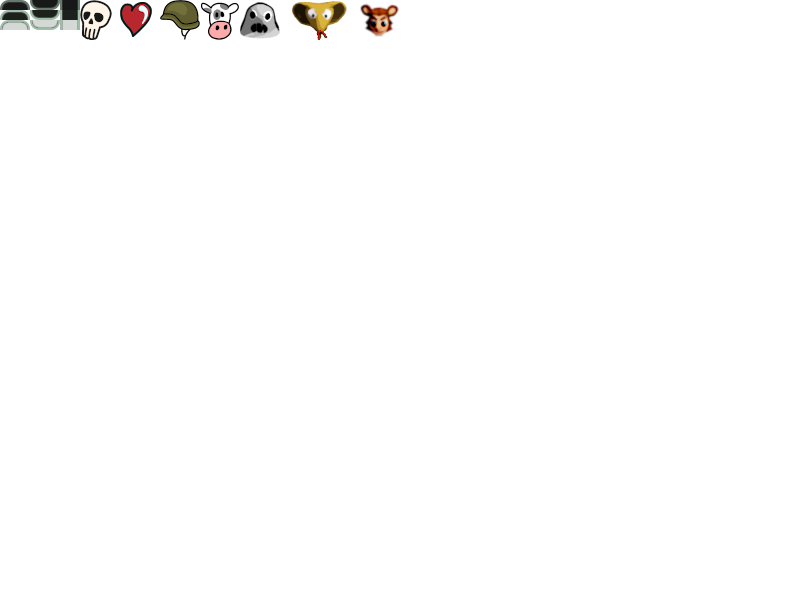
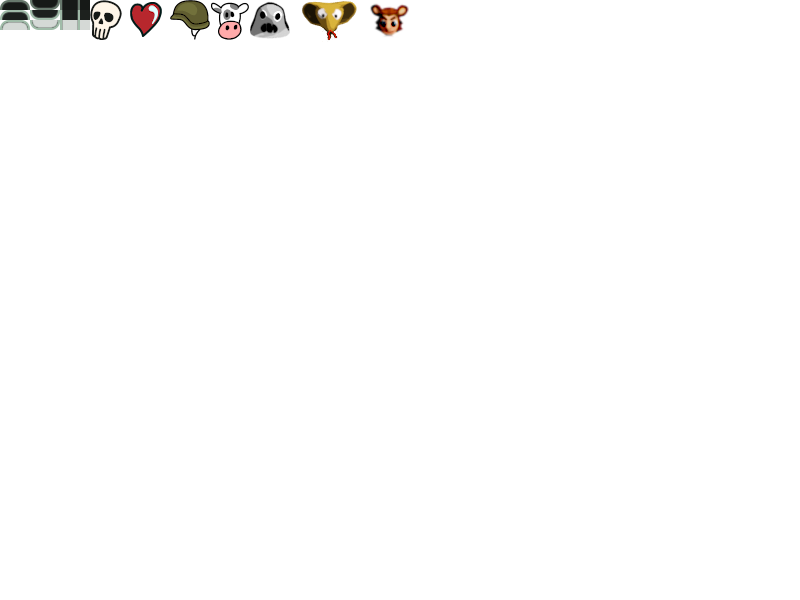
Changed Border sprite

Changed region(s): [[0.0938, 0.0, 0.5312, 0.09]]

diff --git a/src/Box.cpp b/src/Box.cpp
@@ -1,29 +1,29 @@
-#include "Border.h"
+#include "Box.h"
 #include <iostream>
 
-Border::Border() {}
+Box::Box() {}
 
-Border::Border(const Border& b)
+Box::Box(const Box& b)
 	:sprites(b.sprites)
 	{}
 
-void Border::setSprite(size_t name, sf::Sprite sprite) {
+void Box::setSprite(size_t name, sf::Sprite sprite) {
 	sprites[name] = sprite;
 }
 
-sf::Sprite& Border::getSprite(size_t name) {
+sf::Sprite& Box::getSprite(size_t name) {
 	return sprites[name];
 }
 
-void Border::setTexture(size_t name, sf::Texture texture) {
+void Box::setTexture(size_t name, sf::Texture texture) {
 	textures[name] = texture;
 }
 
-sf::Texture& Border::getTexture(size_t name) {
+sf::Texture& Box::getTexture(size_t name) {
 	return textures[name];
 }
 
-void Border::match(const sf::IntRect& rect) {
+void Box::match(const sf::IntRect& rect) {
 	top_left.setPosition(rect.left, rect.top);
 	top_center.setPosition(rect.left + top_left.getTextureRect().width, rect.top);
 	top_right.setPosition(rect.left + rect.width - top_right.getTextureRect().width, rect.top);
@@ -32,14 +32,16 @@ void Border::match(const sf::IntRect& rect) {
 	bottom_right.setPosition(rect.left + rect.width - bottom_right.getTextureRect().width, rect.top + rect.height - bottom_right.getTextureRect().height);
 	middle_left.setPosition(rect.left, rect.top + top_left.getTextureRect().height);
 	middle_right.setPosition(rect.left + rect.width - middle_right.getTextureRect().width, rect.top + top_right.getTextureRect().height);
+	middle_center.setPosition(rect.left + middle_left.getTextureRect().width, rect.top + middle_left.getTextureRect().height);
 
 	top_center.setTextureRect(sf::IntRect(0,0, rect.width - top_left.getTextureRect().width - top_right.getTextureRect().width, top_center.getTextureRect().height));
 	bottom_center.setTextureRect(sf::IntRect(0,0, rect.width - bottom_left.getTextureRect().width - bottom_right.getTextureRect().width, bottom_center.getTextureRect().height));
 	middle_left.setTextureRect(sf::IntRect(0,0, middle_left.getTextureRect().width, rect.height - top_left.getTextureRect().height - bottom_left.getTextureRect().height));
 	middle_right.setTextureRect(sf::IntRect(0,0, middle_right.getTextureRect().width, rect.height - top_right.getTextureRect().height - bottom_right.getTextureRect().height));
+	middle_center.setTextureRect(sf::IntRect(0,0, rect.width - middle_left.getTextureRect().width - middle_right.getTextureRect().width, rect.height - top_center.getTextureRect().height - bottom_center.getTextureRect().height));
 }
 
-std::vector<sf::Sprite*> Border::getSprites() {
+std::vector<sf::Sprite*> Box::getSprites() {
 	std::vector<sf::Sprite*> sprites;
 	sprites.push_back(&top_left);
 	sprites.push_back(&top_center);
@@ -49,5 +51,6 @@ std::vector<sf::Sprite*> Border::getSprites() {
 	sprites.push_back(&bottom_right);
 	sprites.push_back(&middle_left);
 	sprites.push_back(&middle_right);
+	sprites.push_back(&middle_center);
 	return sprites;
 }

diff --git a/src/Assets.cpp b/src/Assets.cpp
@@ -52,7 +52,7 @@ sf::Font& Assets::getFont(size_t name) {
 	return fonts[name];
 }
 
-Border& Assets::getBorder(std::string name) {
+Box& Assets::getBorder(std::string name) {
 	return borders[name];
 }
 
@@ -759,28 +759,31 @@ void Assets::loadBorders() {
 			file >> border_name;
 		}
 		else if (word == "top_left") {
-			borders[border_name].setSprite(Border::TOP_LEFT, sf::Sprite(textures[texture_name], loadRect(file)));
+			borders[border_name].setSprite(Box::TOP_LEFT, sf::Sprite(textures[texture_name], loadRect(file)));
 		}
 		else if (word == "top_center") {
-			loadBorderRepeatable(border_name, Border::TOP_CENTER, texture_name);
+			loadBorderRepeatable(border_name, Box::TOP_CENTER, texture_name);
 		}
 		else if (word == "top_right") {
-			borders[border_name].setSprite(Border::TOP_RIGHT, sf::Sprite(textures[texture_name], loadRect(file)));
+			borders[border_name].setSprite(Box::TOP_RIGHT, sf::Sprite(textures[texture_name], loadRect(file)));
 		}
 		else if (word == "bottom_left") {
-			borders[border_name].setSprite(Border::BOTTOM_LEFT, sf::Sprite(textures[texture_name], loadRect(file)));
+			borders[border_name].setSprite(Box::BOTTOM_LEFT, sf::Sprite(textures[texture_name], loadRect(file)));
 		}
 		else if (word == "bottom_center") {
-			loadBorderRepeatable(border_name, Border::BOTTOM_CENTER, texture_name);
+			loadBorderRepeatable(border_name, Box::BOTTOM_CENTER, texture_name);
 		}
 		else if (word == "bottom_right") {
-			borders[border_name].setSprite(Border::BOTTOM_RIGHT, sf::Sprite(textures[texture_name], loadRect(file)));
+			borders[border_name].setSprite(Box::BOTTOM_RIGHT, sf::Sprite(textures[texture_name], loadRect(file)));
 		}
 		else if (word == "middle_left") {
-			loadBorderRepeatable(border_name, Border::MIDDLE_LEFT, texture_name);
+			loadBorderRepeatable(border_name, Box::MIDDLE_LEFT, texture_name);
 		}
 		else if (word == "middle_right") {
-			loadBorderRepeatable(border_name, Border::MIDDLE_RIGHT, texture_name);
+			loadBorderRepeatable(border_name, Box::MIDDLE_RIGHT, texture_name);
+		}
+		else if (word == "middle_center") {
+			loadBorderRepeatable(border_name, Box::MIDDLE_CENTER, texture_name);
 		}
 		else {
 			std::cout << "In file: " << file_path << " unknown key: " << word << std::endl;

diff --git a/src/Box.h b/src/Box.h
@@ -1,0 +1,46 @@
+#ifndef BOX
+#define BOX
+
+#include <SFML/Graphics.hpp>
+
+class Box {
+	std::map<size_t, sf::Sprite> sprites;
+	std::map<size_t, sf::Texture> textures;
+
+	sf::Sprite& top_left = sprites[Box::TOP_LEFT];
+	sf::Sprite& top_center = sprites[Box::TOP_CENTER];
+	sf::Sprite& top_right = sprites[Box::TOP_RIGHT];
+	sf::Sprite& bottom_left = sprites[Box::BOTTOM_LEFT];
+	sf::Sprite& bottom_center = sprites[Box::BOTTOM_CENTER];
+	sf::Sprite& bottom_right = sprites[Box::BOTTOM_RIGHT];
+	sf::Sprite& middle_left = sprites[Box::MIDDLE_LEFT];
+	sf::Sprite& middle_right = sprites[Box::MIDDLE_RIGHT];
+	sf::Sprite& middle_center = sprites[Box::MIDDLE_CENTER];
+
+public:
+	enum {
+		NONE,
+		TOP_LEFT,
+		TOP_CENTER,
+		TOP_RIGHT,
+		BOTTOM_LEFT,
+		BOTTOM_CENTER,
+		BOTTOM_RIGHT,
+		MIDDLE_LEFT,
+		MIDDLE_RIGHT,
+		MIDDLE_CENTER
+	};
+
+	void setSprite(size_t name, sf::Sprite sprite);
+	void setTexture(size_t name, sf::Texture texture);
+	std::vector<sf::Sprite*> getSprites();
+	sf::Sprite& getSprite(size_t name);
+	sf::Texture& getTexture(size_t name);
+
+	void match(const sf::IntRect& rect);
+
+	Box();
+	Box(const Box& b);
+};
+
+#endif

diff --git a/src/Assets.h b/src/Assets.h
@@ -5,7 +5,7 @@
 #include "Common.h"
 #include "Enums.h"
 #include "Entity.h"
-#include "Border.h"
+#include "Box.h"
 #include "Interface.h"
 
 struct EntityDataset {
@@ -71,7 +71,7 @@ private:
 	std::map<size_t, sf::Font> fonts;
 	std::map<std::string, sf::Texture> textures;
 	std::map<std::string, sf::Sprite> sprites;
-	std::map<std::string, Border> borders;
+	std::map<std::string, Box> borders;
 	std::map<std::string, sf::Shader> shaders;
 	std::map<std::string, Widget> widgets;
 	std::map<std::string, sf::Music> bg_music;
@@ -120,7 +120,7 @@ public:
 	const std::map<size_t, Components>& getRecipes(size_t tag);
 	size_t getScorePoints(size_t name_id);
 	sf::Font& getFont(size_t name);
-	Border& getBorder(std::string name);
+	Box& getBorder(std::string name);
 	sf::Texture& getTexture(std::string name);
 	sf::Sprite& getSprite(std::string name);
 	sf::Sprite& getIconSmall(size_t name_id);

diff --git a/src/Widget.h b/src/Widget.h
@@ -2,7 +2,7 @@
 #define	WIDGET
 
 #include "SFML/Graphics.hpp"
-#include "Border.h"
+#include "Box.h"
 #include "CommonBehaviour.h"
 
 struct WidgetFx {
@@ -64,7 +64,7 @@ public:
 //box
 	sf::Sprite* background;
 	sf::Vector2i bg_offset;
-	Border* border;
+	Box* border;
 //box
 
 //text
@@ -102,7 +102,7 @@ public:
 // box
 	void setBackground(sf::Texture& tex, int offset);
 	void setBackground(sf::Sprite& sprite, sf::Vector2i offset);
-	void setBorder(Border& b);
+	void setBorder(Box& b);
 	void setBackgroundColor(sf::Color color);
 // box
 

diff --git a/src/Widget.cpp b/src/Widget.cpp
@@ -164,9 +164,9 @@ void Widget::setBackgroundColor(sf::Color color) {
 	if (background) background->setColor(color);
 }
 
-void Widget::setBorder(Border& b) {
+void Widget::setBorder(Box& b) {
 	if (!border) {
-		border = new Border(b);
+		border = new Box(b);
 
 		border->match(sf::IntRect(pos_abs.x, pos_abs.y, size.x, size.y));
 
